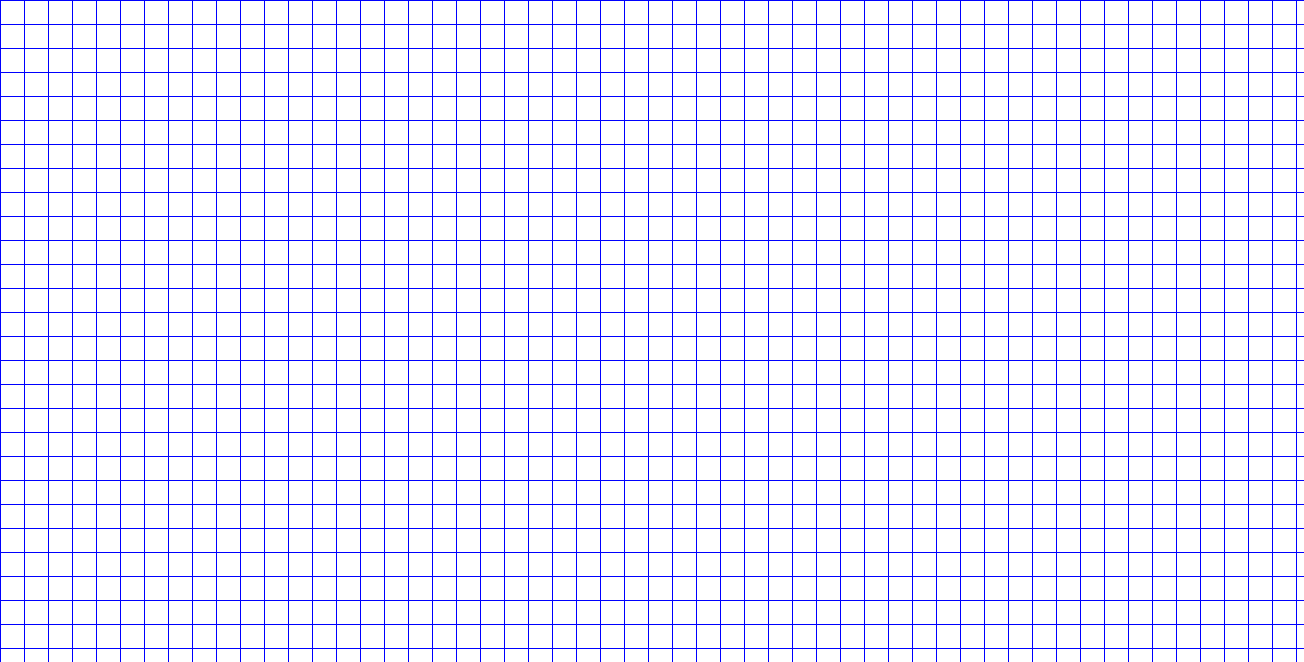
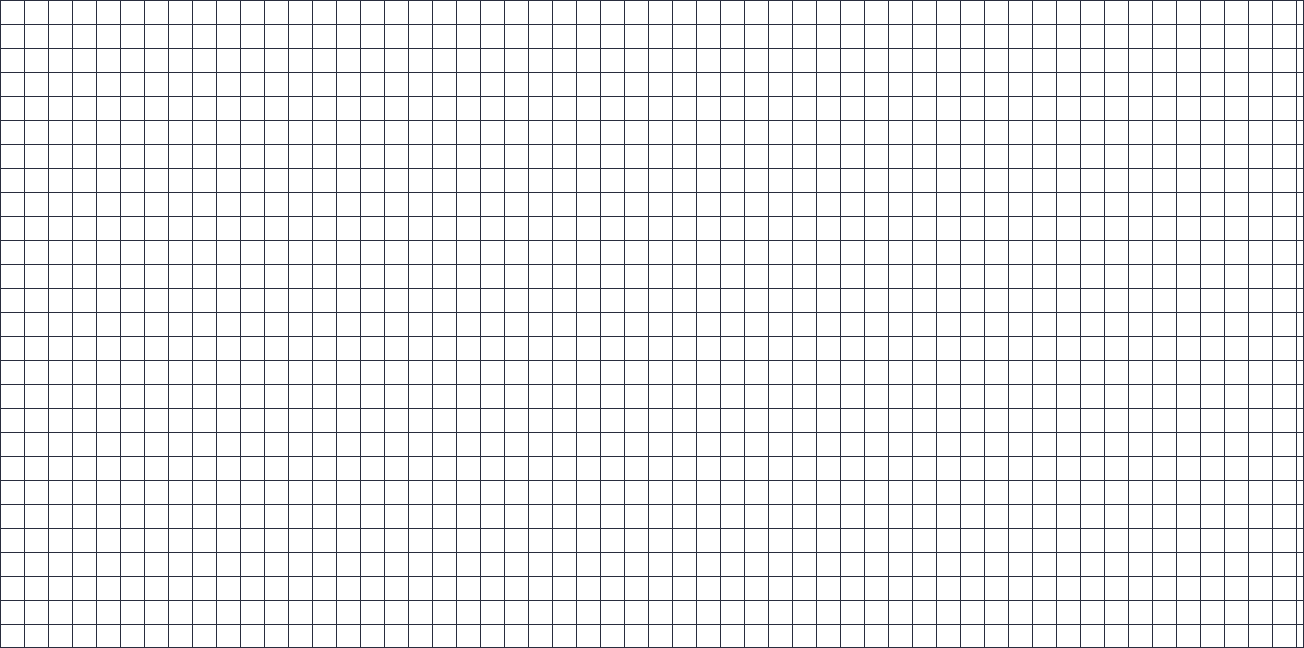
adjust color and field sizing

Changed region(s): [[0.0, 0.0, 1.0, 1.0]]

diff --git a/stylesheet.css b/stylesheet.css
@@ -31,7 +31,7 @@
   }
   
   thead {
-    background-color: #0070FF;
+    background-color: #82AAFF;
     color: #fff;
   }
   
@@ -137,7 +137,7 @@
   }
   
   button {
-    background-color: #42BBFF;
+    background-color: #89DDFF;
     border: none;
     padding: 7px 12px;
     border-radius: 4px;
@@ -148,7 +148,7 @@
   }
   
   button:hover {
-    background-color: #42AAFF;
+    background-color: #82AAFF;
   }
   
   button:focus {
@@ -156,16 +156,15 @@
   }
   
   td>button {
-    background-color: #FF1900;
+    background-color: #FF5370;
   }
   
   td>button:hover {
-    background-color: #EE1900;
+    background-color: #F07178;
   }
   
-  /* circle{
-    fill: #FF0000;
-  } */
   #field {
+    background-size: contain;
     background-image: url('field.png');
-}
+    background-repeat: no-repeat;
+  }
